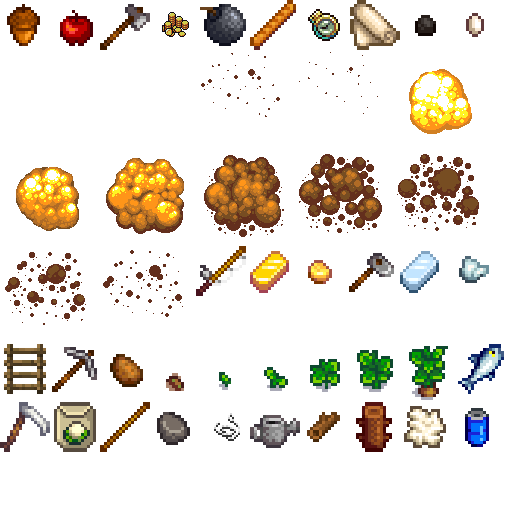
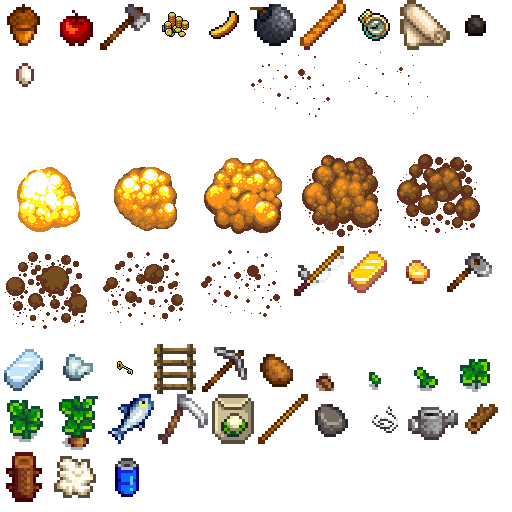
New item: key. Also made the ladder connect to the secret tree.

diff --git a/core/src/com/binarybrains/sprout/entity/tree/SmallTree.java b/core/src/com/binarybrains/sprout/entity/tree/SmallTree.java
@@ -1,13 +1,17 @@
 package com.binarybrains.sprout.entity.tree;
 
+import com.badlogic.gdx.audio.Sound;
 import com.badlogic.gdx.graphics.Color;
 import com.badlogic.gdx.graphics.g2d.Batch;
 import com.badlogic.gdx.graphics.g2d.Sprite;
 import com.badlogic.gdx.math.Vector2;
+import com.binarybrains.sprout.SproutGame;
 import com.binarybrains.sprout.entity.Entity;
 import com.binarybrains.sprout.entity.Mob;
 import com.binarybrains.sprout.entity.Player;
+import com.binarybrains.sprout.entity.bomb.Bomb;
 import com.binarybrains.sprout.item.Item;
+import com.binarybrains.sprout.item.ResourceItem;
 import com.binarybrains.sprout.item.ToolItem;
 import com.binarybrains.sprout.item.tool.Axe;
 import com.binarybrains.sprout.level.Level;
@@ -48,11 +52,18 @@ public class SmallTree extends Entity { // extends Vegitation or ?
 
     @Override
     public boolean interact(Player player, Item item, Mob.Direction attackDir) {
-        if (item instanceof ToolItem) {
-            ToolItem toolItem = (ToolItem) item;
-            if (toolItem.tool instanceof Axe) {
+        if (item != null) {
+            if (item.getName().equals("Ladder")) {
+                // move this into a player method ?
+                ((Sound) SproutGame.assets.get("sfx/fancy_reward.wav")).play();
+                player.getInventory().removeResource(((ResourceItem) item).resource, 1);
+                player.getLevel().screen.hud.refreshInventory();
+                player.getLevel().screen.hud.speakDialog(
+                        "The secret tree house",
+                        "The ladder is perfect! You climb the secret tree and up there is a tree house."
+                );
+                return true;
             }
-
         }
         return false;
     }

diff --git a/core/src/com/binarybrains/sprout/crafting/Crafting.java b/core/src/com/binarybrains/sprout/crafting/Crafting.java
@@ -29,6 +29,7 @@ public class Crafting {
             workbenchRecipes.add(new ToolRecipe(new WateringCan(), 0).addCost(Resource.ironBar, 5));
             workbenchRecipes.add(new ToolRecipe(new Scythe(), 0).addCost(Resource.ironBar, 2).addCost(Resource.stick, 2));
             workbenchRecipes.add(new ToolRecipe(new FishingPole(), 0).addCost(Resource.ironBar, 1).addCost(Resource.stick, 1).addCost(Resource.string, 1));
+            workbenchRecipes.add(new ToolRecipe(new GoldKey(), 0).addCost(Resource.goldIngot, 2));
 
 
             workbenchRecipes.add(new ResourceRecipe(Resource.cloth).addCost(Resource.wool, 3));
@@ -38,7 +39,7 @@ public class Crafting {
             workbenchRecipes.add(new ResourceRecipe(Resource.ironBar).addCost(Resource.ironOre, 4).addCost(Resource.coal, 1));
             workbenchRecipes.add(new ResourceRecipe(Resource.goldIngot).addCost(Resource.goldNugget, 4).addCost(Resource.coal, 1));
             workbenchRecipes.add(new ResourceRecipe(Resource.woodFence).addCost(Resource.wood, 1));
-            workbenchRecipes.add(new ResourceRecipe(Resource.ladder).addCost(Resource.wood, 6));
+            workbenchRecipes.add(new ResourceRecipe(Resource.ladder).addCost(Resource.stick, 6));
 
             //furnaceRecipes.add(new ResourceRecipe(Resource.glass).addCost(Resource.sand, 4).addCost(Resource.coal, 1));
 

diff --git a/core/src/com/binarybrains/sprout/item/resource/Resource.java b/core/src/com/binarybrains/sprout/item/resource/Resource.java
@@ -28,6 +28,7 @@ public class Resource {
     public static Resource salmon = new FoodResource("Salmon", "Nice meatfish, grill it!");
     public static Resource potato = new FoodResource("Potato", "Starchy, tuberous crop.");
     public static Resource apple = new FoodResource("Apple", "A fruit");
+    public static Resource banana = new FoodResource("Banana", "A yellow strange looking fruit");
 
     public static Resource seeds = new SeedResource("Seed Bag", "A bag of mixed seeds");
 

diff --git a/core/src/com/binarybrains/sprout/item/tool/Tool.java b/core/src/com/binarybrains/sprout/item/tool/Tool.java
@@ -12,6 +12,7 @@ public abstract class Tool {
     public static WateringCan wateringcan = new WateringCan();
     public static Scythe scythe = new Scythe();
     public static FishingPole fishingpole = new FishingPole();
+    // public static GoldKey goldenKey = new GoldKey();
 
     // -----------------------------------------------------------
 

diff --git a/core/src/com/binarybrains/sprout/item/tool/GoldKey.java b/core/src/com/binarybrains/sprout/item/tool/GoldKey.java
@@ -1,0 +1,10 @@
+package com.binarybrains.sprout.item.tool;
+
+/**
+ * Created by erikl on 28/08/17.
+ */
+public class GoldKey extends Tool {
+    public GoldKey() {
+        super("Key", "The key of all keys.");
+    }
+}
